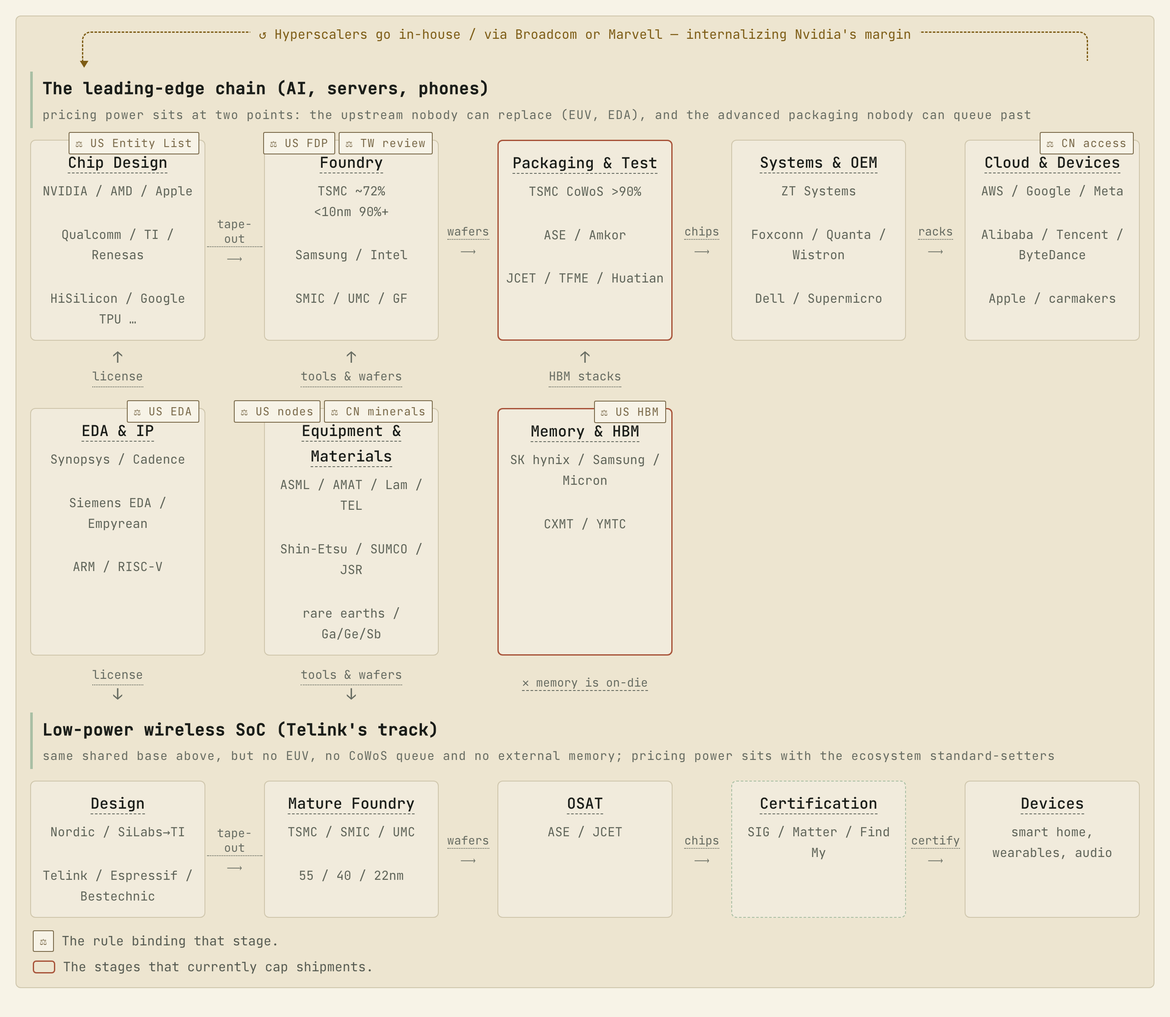
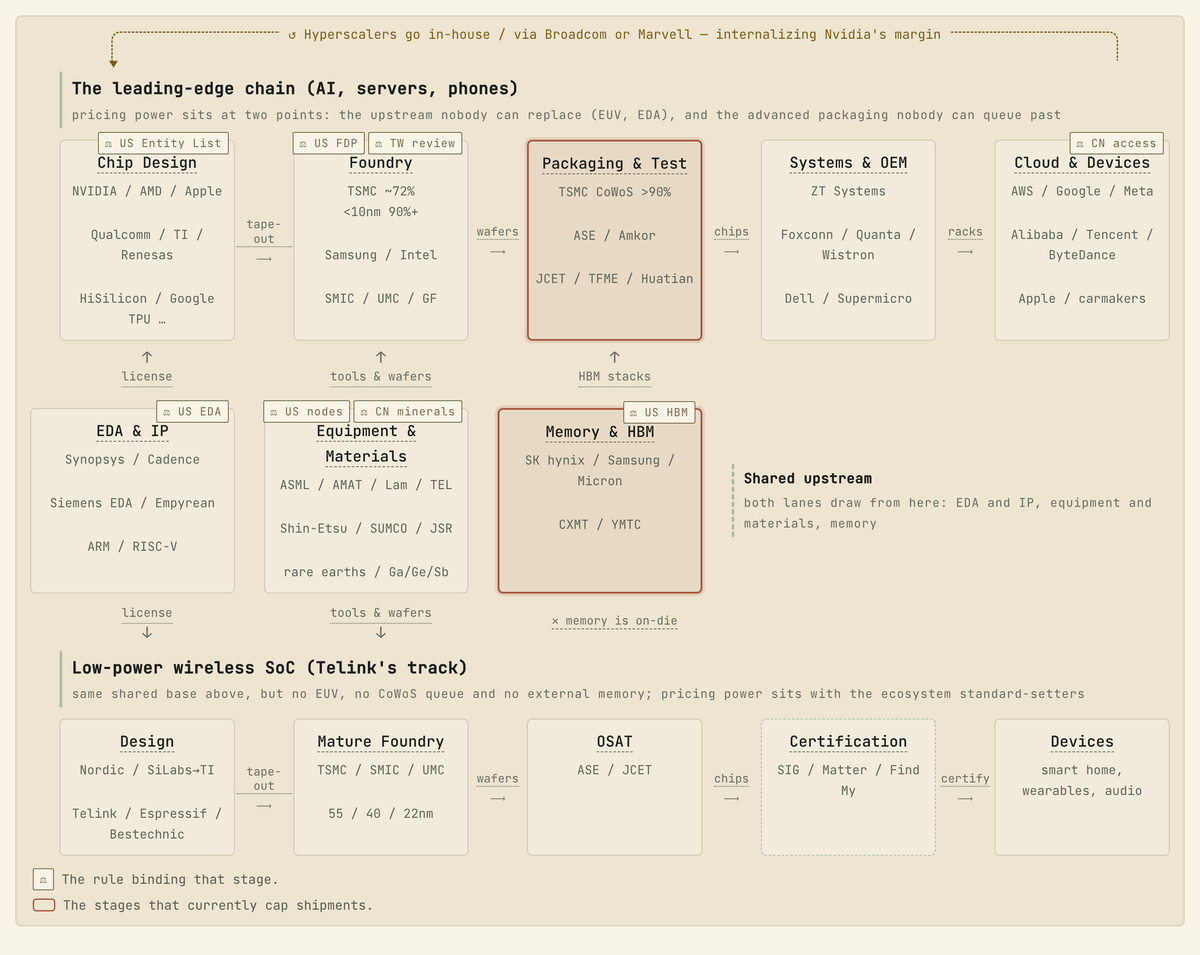
semis: the shared band is labelled and set apart; the red border is visible
Three things, all from the same reading of the figure:

The red border was 1.5px of a muted tone against a dark card and lost
against every other border on the page. It goes to 2px with the tinted
fill and a soft ring, so the two stages that cap shipments read as
marked rather than merely outlined.

The band between the lanes serves both — it feeds up to the leading edge
and down to low-power wireless — but sitting between two lane headers it
was being read as part of the top one, which quietly wrote EDA and
equipment out of the wireless track. It now carries its own label,
"共用上游 / Shared upstream", in the empty columns beside it.

And it sits half a connector to the left of the rows above and below, so
it reads as a layer feeding the chain rather than a step inside it. Done
by indenting the grid and pulling the band back, so nothing spills past
the frame: frame at 18px, band at 35, chain at 69.

Register pass on the text merged in yesterday, which I shipped without
one: 「不是漏画了」→「并非遗漏」, 「谁自己有厂」→「是否自建产线」,
「只剩英特尔还在扛」→「仅余英特尔仍在坚持」, 「往上游长」→「向上游延伸」,
「用自家 300mm 厂的成本来打」→「以自有 300mm 产线的成本参与竞争」, and ten more.

diff --git a/quartz/static/semis/value-chain-map.html b/quartz/static/semis/value-chain-map.html
@@ -251,7 +251,7 @@ h1.article-title{font-size:30px}
   .fig{width:min(1320px, calc(100vw - 48px));
     margin-left:calc((100% - min(1320px, 100vw - 48px)) / 2)}
 .fig{overflow:visible}}
-.fgrid{display:grid;min-width:1060px;
+.fgrid{display:grid;min-width:1060px;padding-left:34px;
   grid-template-columns:1fr 68px 1fr 68px 1fr 68px 1fr 68px 1fr;
   gap:10px 0;align-items:stretch}
 .flane{font-size:14px;color:var(--color-text-faint);letter-spacing:.05em;
@@ -280,7 +280,8 @@ h1.article-title{font-size:30px}
   background:var(--color-bg);border:1px solid var(--rule);color:var(--rule);
   cursor:help;border-bottom:1px solid var(--rule)!important;white-space:nowrap}
 .fpill .tg-tip-box{color:var(--color-text-dim)}
-.fbox.hot{border-color:var(--hot);border-width:1.5px}
+.fbox.hot{border-color:var(--hot);border-width:2px;background:var(--hot-bg);
+  box-shadow:0 0 0 3px color-mix(in srgb, var(--hot) 14%, transparent)}
 /* the loop now sits above the chain, so it brackets downward: the rule runs
    along the top and both arms drop to the row, head pointing down into design */
 .fbrk{position:relative;height:34px;margin:0 60px;
@@ -368,6 +369,12 @@ h1.article-title{font-size:30px}
 .fnote{display:flex;align-items:center;justify-content:center;text-align:center;
   font-size:13.5px;line-height:1.3;color:var(--color-text-faint);padding:2px;min-height:40px}
 .fnote .tg-tip{border-bottom-style:dashed}
+
+/* the shared band is a layer feeding the chain, not a step in it: offset it so
+   its cells deliberately fail to line up with the rows above and below */
+.fbox.mid{margin-left:-34px}
+.flane.bandlane{border-left-style:dashed;align-self:center;margin-left:-34px}
+.flane.bandlane .ln{font-size:16px}
 </style></head><body><article>
 <h1 class="article-title">半导体产业链全图 — Semiconductor Value Chain: The Full Map</h1>
 <p class="meta">2026-08-21 / silviazeng.github.io</p>
@@ -392,12 +399,12 @@ h1.article-title{font-size:30px}
 <div class="fvert up midv" style="grid-row:4;grid-column:1"><span class="ar">↑</span><span class="tg-tip " tabindex="0"><span class="tg-lang zh">授权</span><span class="tg-lang en">license</span><span class="tg-tip-box"><span class="tg-lang zh">EDA 工具按席位收费；IP 按「授权费 + 每颗版税」收。ARM 的商业模式就在这一条箭头上。</span><span class="tg-lang en">EDA tools are sold per seat; IP as licence fee plus per-chip royalty. ARM's entire business model lives on this one arrow.</span></span></span></div>
 <div class="fvert up midv" style="grid-row:4;grid-column:3"><span class="ar">↑</span><span class="tg-tip " tabindex="0"><span class="tg-lang zh">设备与硅片</span><span class="tg-lang en">tools & wafers</span><span class="tg-tip-box"><span class="tg-lang zh">光刻机、刻蚀机、硅片、光刻胶从这里进厂。断供这一条竖线，工厂两年后就造不了下一代。</span><span class="tg-lang en">Scanners, etchers, wafers and resists enter the fab here. Cut this vertical and in two years the fab cannot build the next node.</span></span></span></div>
 <div class="fvert up midv" style="grid-row:4;grid-column:5"><span class="ar">↑</span><span class="tg-tip " tabindex="0"><span class="tg-lang zh">HBM 堆栈</span><span class="tg-lang en">HBM stacks</span><span class="tg-tip-box"><span class="tg-lang zh">HBM 是在<b>封装环节</b>才和逻辑裸片合体的——这正是 CoWoS 成为整条链瓶颈的原因。</span><span class="tg-lang en">HBM only meets the logic die <b>at packaging</b> — which is exactly why CoWoS is the chain's bottleneck.</span></span></span></div>
-<div class="fbox mid" style="grid-row:5;grid-column:1"><span class="ftag"><span class="fpill tg-tip" tabindex="0">⚖ <span class="tg-lang zh">美国 EDA</span><span class="tg-lang en">US EDA</span><span class="tg-tip-box"><span class="tg-lang zh">同属一套<b>美国出口管制体系（EAR，商务部 BIS 执行）</b>——五件工具各咬一层，这件管的是「软件能不能给你用」。<br><br><b>EAR 对 EDA 工具与 IP 的管制。</b>断供这一层不需要碰任何硬件，因此是 2022 年管制里最先被动用的杠杆。三家 EDA 寡头里两家在美国，第三家（Siemens EDA）技术根也在美国，同样受约束。</span><span class="tg-lang en">One instrument of the <b>same US export-control system (the EAR, run by BIS)</b> — five tools each bite one layer, and this one governs whether you may use the software.<br><br><b>EAR controls on EDA tools and IP.</b> Cutting this layer off touches no hardware, which is why it was the first lever pulled in 2022. Two of the three EDA houses are American; the third (Siemens EDA) has American technology roots and is bound the same way.</span></span></span></span><span class="ft"><span class="tg-tip tipL " tabindex="0"><span class="tg-lang zh">EDA 与 IP</span><span class="tg-lang en">EDA & IP</span><span class="tg-tip-box"><span class="tg-lang zh">整个栈的最底层：三家 EDA 寡头（Synopsys、Cadence、Siemens EDA）+ IP 授权（ARM 只授权不卖芯片）。断供这一层不需要碰任何硬件——2022 年管制里最先被用到的杠杆。</span><span class="tg-lang en">The base of the stack: three EDA oligopolists plus IP licensing (ARM sells no chips). Cutting this layer off touches no hardware — the first lever pulled in the 2022 controls.</span></span></span></span><span class="fp"><span class="fpl"><span class="sr sr-us">Synopsys</span> / <span class="sr sr-us">Cadence</span></span><br><span class="fpl"><span class="sr sr-eu">Siemens EDA</span> / <span class="sr sr-cn"><span class="tg-lang zh">华大九天</span><span class="tg-lang en">Empyrean</span></span></span><br><span class="fpl"><span class="sr sr-eu">ARM</span> / <span class="sr sr-eu">RISC-V</span></span></span></div>
+<div class="flane bandlane" style="grid-row:5;grid-column:7/-1"><span class="tg-lang zh"><span class="ln">共用上游</span>两条线都从这里取：EDA 与 IP、设备与材料、存储</span><span class="tg-lang en"><span class="ln">Shared upstream</span>both lanes draw from here: EDA and IP, equipment and materials, memory</span></div><div class="fbox mid" style="grid-row:5;grid-column:1"><span class="ftag"><span class="fpill tg-tip" tabindex="0">⚖ <span class="tg-lang zh">美国 EDA</span><span class="tg-lang en">US EDA</span><span class="tg-tip-box"><span class="tg-lang zh">同属一套<b>美国出口管制体系（EAR，商务部 BIS 执行）</b>——五件工具各咬一层，这件管的是「软件能不能给你用」。<br><br><b>EAR 对 EDA 工具与 IP 的管制。</b>断供这一层不需要碰任何硬件，因此是 2022 年管制里最先被动用的杠杆。三家 EDA 寡头里两家在美国，第三家（Siemens EDA）技术根也在美国，同样受约束。</span><span class="tg-lang en">One instrument of the <b>same US export-control system (the EAR, run by BIS)</b> — five tools each bite one layer, and this one governs whether you may use the software.<br><br><b>EAR controls on EDA tools and IP.</b> Cutting this layer off touches no hardware, which is why it was the first lever pulled in 2022. Two of the three EDA houses are American; the third (Siemens EDA) has American technology roots and is bound the same way.</span></span></span></span><span class="ft"><span class="tg-tip tipL " tabindex="0"><span class="tg-lang zh">EDA 与 IP</span><span class="tg-lang en">EDA & IP</span><span class="tg-tip-box"><span class="tg-lang zh">整个栈的最底层：三家 EDA 寡头（Synopsys、Cadence、Siemens EDA）+ IP 授权（ARM 只授权不卖芯片）。断供这一层不需要碰任何硬件——2022 年管制里最先被用到的杠杆。</span><span class="tg-lang en">The base of the stack: three EDA oligopolists plus IP licensing (ARM sells no chips). Cutting this layer off touches no hardware — the first lever pulled in the 2022 controls.</span></span></span></span><span class="fp"><span class="fpl"><span class="sr sr-us">Synopsys</span> / <span class="sr sr-us">Cadence</span></span><br><span class="fpl"><span class="sr sr-eu">Siemens EDA</span> / <span class="sr sr-cn"><span class="tg-lang zh">华大九天</span><span class="tg-lang en">Empyrean</span></span></span><br><span class="fpl"><span class="sr sr-eu">ARM</span> / <span class="sr sr-eu">RISC-V</span></span></span></div>
 <div class="fbox mid" style="grid-row:5;grid-column:3"><span class="ftag"><span class="fpill tg-tip" tabindex="0">⚖ <span class="tg-lang zh">美国门槛</span><span class="tg-lang en">US nodes</span><span class="tg-tip-box"><span class="tg-lang zh">同属一套<b>美国出口管制体系（EAR，商务部 BIS 执行）</b>——五件工具各咬一层，这件管的是「设备能不能进厂」。<br><br><b>2022 年 10 月 7 日的制程门槛 + 2024 年 12 月的设备 FDP 规则。</b>向中国境内工厂出口设备，只要该厂生产 16/14nm 以下逻辑、18nm 半节距以下 DRAM 或 128 层以上 NAND，就需要许可证——<b>不看所有权</b>。2024 年 12 月起，连非美国造的设备只要用了美国技术也一并覆盖。</span><span class="tg-lang en">One instrument of the <b>same US export-control system (the EAR, run by BIS)</b> — five tools each bite one layer, and this one governs whether tools may enter the fab.<br><br><b>The node thresholds of 7 October 2022, plus the equipment FDP rule of December 2024.</b> Shipping tools to any China-located fab producing logic below 16/14nm, DRAM below 18nm half-pitch or NAND at 128+ layers requires a licence — <b>regardless of who owns the fab</b>. Since December 2024 even non-US tools built with US technology are covered.</span></span></span><span class="fpill tg-tip" tabindex="0">⚖ <span class="tg-lang zh">中国原料</span><span class="tg-lang en">CN minerals</span><span class="tg-tip-box"><span class="tg-lang zh"><b>商务部 2025 年 10 月 9 日第 61/62 号公告。</b>只要一件外国制造的产品里含有价值占比 0.1% 以上的中国原产稀土，出口就需要中国的许可证——<b>这是中国版的 FDP 规则</b>，同样的域外管辖逻辑，方向相反。另有镓、锗、锑：2024 年 12 月 3 日曾宣布对美「原则上不予许可」，2025 年 11 月改回许可制。釜山会晤后，域外条款暂停至 2026 年 11 月 10 日，镓锗锑暂停至 11 月 27 日。</span><span class="tg-lang en"><b>MOFCOM Notices 61/62 of 9 October 2025.</b> Any foreign-made good containing 0.1% or more Chinese-origin rare earths needs a Chinese export licence — structurally the mirror of the US FDP rule. Suspended after Busan until 10 November 2026; the gallium/germanium/antimony suspension runs to 27 November.</span></span></span></span><span class="ft"><span class="tg-tip " tabindex="0"><span class="tg-lang zh">设备与材料</span><span class="tg-lang en">Equipment & Materials</span><span class="tg-tip-box"><span class="tg-lang zh"><b>设备与材料</b>。造芯片用的机器和原料，集中度比下游任何一层都高：EUV 只有 ASML 一家，其光源来自美国 Cymer、镜头来自德国蔡司。稀土和镓锗锑的精炼环节 80% 以上在中国。</span><span class="tg-lang en"><b>Equipment & materials</b> — more concentrated than anything downstream: one EUV maker (ASML), whose source is American (Cymer) and optics German (Zeiss). China refines 80%+ of rare earths and Ga/Ge/Sb.</span></span></span></span><span class="fp"><span class="fpl"><span class="sr sr-eu">ASML</span> / <span class="sr sr-us">AMAT</span> / <span class="sr sr-us">Lam</span> / <span class="sr sr-jp">TEL</span></span><br><span class="fpl"><span class="sr sr-jp"><span class="tg-lang zh">信越</span><span class="tg-lang en">Shin-Etsu</span></span> / <span class="sr sr-jp">SUMCO</span> / <span class="sr sr-jp">JSR</span></span><br><span class="fpl"><span class="sr sr-cn"><span class="tg-lang zh">稀土及镓锗锑</span><span class="tg-lang en">rare earths / Ga/Ge/Sb</span></span></span></span></div>
 <div class="fbox hot mid" style="grid-row:5;grid-column:5"><span class="ftag"><span class="fpill tg-tip" tabindex="0">⚖ <span class="tg-lang zh">美国 HBM</span><span class="tg-lang en">US HBM</span><span class="tg-tip-box"><span class="tg-lang zh">同属一套<b>美国出口管制体系（EAR，商务部 BIS 执行）</b>——五件工具各咬一层，这件管的是「这类物项本身」。<br><br><b>2024 年 12 月起 HBM 被纳入管制（ECCN 3A090.c）。</b>这是目前限制华为昇腾出货量的真正瓶颈——约束在 HBM，不在逻辑晶圆。注意这一格里三家的机制各不相同：美光本身是美国公司；长江存储 2022 年 12 月被列入实体清单；<b>长鑫至今未被列名，它受约束靠的是上面那条不看所有权的制程门槛</b>。</span><span class="tg-lang en">One instrument of the <b>same US export-control system (the EAR, run by BIS)</b> — five tools each bite one layer, and this one governs the item class itself.<br><br><b>HBM came under control in December 2024 (ECCN 3A090.c).</b> This, not logic wafers, is the binding constraint on Huawei's Ascend shipments. Note the three makers here are caught by different mechanisms: Micron is simply American; YMTC was Entity-Listed in December 2022; <b>CXMT has never been named — it is bound by the ownership-blind node thresholds above</b>.</span></span></span></span><span class="ft"><span class="tg-tip " tabindex="0"><span class="tg-lang zh">存储与 HBM</span><span class="tg-lang en">Memory & HBM</span><span class="tg-tip-box"><span class="tg-lang zh"><b>HBM（High Bandwidth Memory，高带宽内存）</b>。垂直堆叠的 DRAM，紧贴处理器裸片放置。AI 加速器的主要规格竞赛点，全球只有 SK 海力士、三星、美光三家能量产。2024 年 12 月起被列入美国出口管制，<b>这是目前限制华为昇腾出货量的真正瓶颈——不是逻辑晶圆</b>。</span><span class="tg-lang en"><b>HBM (High Bandwidth Memory)</b> — vertically stacked DRAM placed against the processor die. Only SK hynix, Samsung and Micron produce it at volume. Export-controlled by the US since December 2024, and <b>the actual binding constraint on Huawei's Ascend shipments — not logic wafers</b>.</span></span></span></span><span class="fp"><span class="fpl"><span class="sr sr-kr"><span class="tg-lang zh">SK 海力士</span><span class="tg-lang en">SK hynix</span></span> / <span class="sr sr-kr"><span class="tg-lang zh">三星</span><span class="tg-lang en">Samsung</span></span> / <span class="sr sr-us"><span class="tg-lang zh">美光</span><span class="tg-lang en">Micron</span></span></span><br><span class="fpl"><span class="sr sr-cn"><span class="tg-lang zh">长鑫</span><span class="tg-lang en">CXMT</span></span> / <span class="sr sr-cn"><span class="tg-lang zh">长江存储</span><span class="tg-lang en">YMTC</span></span></span></span></div>
 <div class="fvert midv" style="grid-row:6;grid-column:1"><span class="tg-tip " tabindex="0"><span class="tg-lang zh">授权</span><span class="tg-lang en">license</span><span class="tg-tip-box"><span class="tg-lang zh">低功耗 SoC 一样要买 EDA 和 CPU 内核 IP——泰凌微用 RISC-V，Nordic 用 ARM Cortex-M。<b>成熟节点的设计工具照常能买，但一旦被列入实体清单，EDA 是整层切断的。</b>这是这条线上最真实的一处管制暴露。</span><span class="tg-lang en">Low-power SoCs buy EDA and CPU IP just the same — Telink on RISC-V, Nordic on ARM Cortex-M. <b>Mature-node tools remain purchasable, but an Entity List designation cuts the whole layer at once.</b> This is the one real control exposure on this track.</span></span></span><span class="ar">↓</span></div>
 <div class="fvert midv" style="grid-row:6;grid-column:3"><span class="tg-tip " tabindex="0"><span class="tg-lang zh">设备与硅片</span><span class="tg-lang en">tools & wafers</span><span class="tg-tip-box"><span class="tg-lang zh">同一批设备与材料也供成熟产线——只是用 DUV 而非 EUV。<b>被管制的是先进节点的门槛，不是机台本身</b>，所以 55/40nm 这条线基本不受影响；中国的原料管制则对两条线一视同仁。</span><span class="tg-lang en">The same tools and materials feed mature lines too — on DUV rather than EUV. <b>What is controlled is the node threshold, not the tool</b>, so the 55/40nm track is largely untouched; China's materials controls, by contrast, bind both equally.</span></span></span><span class="ar">↓</span></div>
-<div class="fnote midv" style="grid-row:6;grid-column:5"><span class="tg-tip " tabindex="0"><span class="tg-lang zh">✕ 存储做在片内</span><span class="tg-lang en">✕ memory is on-die</span><span class="tg-tip-box"><span class="tg-lang zh"><b>这条线没有存储环节，不是漏画了。</b>低功耗 SoC 的存储做在片内——嵌入式 flash 加 SRAM，与逻辑电路在同一片硅、同一道工艺里完成。这正是华虹「嵌入式非易失存储」特色工艺值钱的原因，也是这条线停在 55/40nm 的一个理由：eFlash 到更小的节点就做不出来了。少数型号外挂 NOR flash 或 PSRAM，但那是主板上的另一颗料，不是产业链上的一层。HBM 则完全无关。</span><span class="tg-lang en"><b>The missing memory stage is deliberate.</b> A low-power SoC carries its memory on-die — embedded flash plus SRAM, built on the same silicon in the same process. That is what makes HuaHong's embedded non-volatile memory option valuable, and one reason the track sits at 55/40nm: eFlash stops working much below that. A few parts add external NOR flash or PSRAM, but that is another component on the board, not a layer of the chain. HBM is irrelevant here.</span></span></span></div>
+<div class="fnote midv" style="grid-row:6;grid-column:5"><span class="tg-tip " tabindex="0"><span class="tg-lang zh">✕ 存储做在片内</span><span class="tg-lang en">✕ memory is on-die</span><span class="tg-tip-box"><span class="tg-lang zh"><b>这条线没有存储环节，并非遗漏。</b>低功耗 SoC 的存储做在片内——嵌入式 flash 加 SRAM，与逻辑电路在同一片硅、同一道工艺里完成。这正是华虹「嵌入式非易失存储」特色工艺的价值所在，也是这条线停在 55/40nm 的一个理由：eFlash 在更小的节点上无法实现。少数型号外挂 NOR flash 或 PSRAM，但那是主板上的另一颗器件，不构成产业链上的一层。HBM 则完全无关。</span><span class="tg-lang en"><b>The missing memory stage is deliberate.</b> A low-power SoC carries its memory on-die — embedded flash plus SRAM, built on the same silicon in the same process. That is what makes HuaHong's embedded non-volatile memory option valuable, and one reason the track sits at 55/40nm: eFlash stops working much below that. A few parts add external NOR flash or PSRAM, but that is another component on the board, not a layer of the chain. HBM is irrelevant here.</span></span></span></div>
 <div class="flane" style="grid-row:7;grid-column:1/-1"><span class="tg-lang zh"><span class="ln">低功耗无线 SoC（泰凌微所在赛道）</span>共用上面这层底座，但不碰 EUV、不排 CoWoS 的队、不需要外部存储；定价权在生态标准方</span><span class="tg-lang en"><span class="ln">Low-power wireless SoC (Telink's track)</span>same shared base above, but no EUV, no CoWoS queue and no external memory; pricing power sits with the ecosystem standard-setters</span></div>
 <div class="fbox" style="grid-row:8;grid-column:1"><span class="ft"><span class="tg-tip tipL " tabindex="0"><span class="tg-lang zh">设计</span><span class="tg-lang en">Design</span><span class="tg-tip-box"><span class="tg-lang zh"><b>低功耗无线 SoC 设计</b>。竞争维度是功耗、协议覆盖、认证、SDK 易用性和成本——不是算力。单价几毛到几美元，年出货以亿颗计。</span><span class="tg-lang en"><b>Low-power wireless SoC design.</b> The axes are power, protocol coverage, certification, SDK usability and cost — not compute. Cents to dollars per chip, hundreds of millions of units a year.</span></span></span></span><span class="fp"><span class="fpl"><span class="sr sr-eu">Nordic</span> / <span class="sr sr-us">SiLabs→TI</span></span><br><span class="fpl"><span class="sr sr-cn"><span class="tg-lang zh">泰凌微</span><span class="tg-lang en">Telink</span></span> / <span class="sr sr-cn"><span class="tg-lang zh">乐鑫</span><span class="tg-lang en">Espressif</span></span> / <span class="sr sr-cn"><span class="tg-lang zh">恒玄</span><span class="tg-lang en">Bestechnic</span></span></span></span></div>
 <div class="fcon" style="grid-row:8;grid-column:2"><span class="tg-tip " tabindex="0"><span class="tg-lang zh">版图</span><span class="tg-lang en">tape-out</span><span class="tg-tip-box"><span class="tg-lang zh"><b>版图（GDSII）→ tape-out</b>。设计数据定稿、签核、交给代工厂的那个时间点。注意它是事件不是过程。一颗普通 7nm SoC 的首次 tape-out 通常就要 5,000 万美元。</span><span class="tg-lang en"><b>Layout (GDSII) → tape-out</b> — the moment design data is finalized, signed off and handed to the foundry. An event, not a process. A first tape-out of an ordinary 7nm SoC typically runs $50m.</span></span></span><span class="ar">⟶</span></div>
@@ -450,7 +457,7 @@ h1.article-title{font-size:30px}
 <p class="st-kicker"><span class="tg-lang zh">把版图印到硅上。资本开支最重、集中度最高的一环。</span><span class="tg-lang en">Printing the layout onto silicon. The heaviest capex and the highest concentration in the chain.</span></p>
 <p class="st-rules"><span class="rl-mark">⚖</span><span class="tg-lang zh">这一层受：</span><span class="tg-lang en">This layer is bound by: </span><span class="rule tg-tip" tabindex="0"><span class="tg-lang zh">美国 FDP 规则</span><span class="tg-lang en">US FDP rule</span><span class="tg-tip-box"><span class="tg-lang zh">同属一套<b>美国出口管制体系（EAR，商务部 BIS 执行）</b>——五件工具各咬一层，这件管的是「在国外造的算不算美国管」。<br><br><b>外国直接产品规则（FDP）。</b>一件产品哪怕百分之百在台湾制造、由台湾公司拥有，只要它是用美国的技术、软件或设备「直接生产」出来的，美国就主张管辖权——不论它在哪造、由谁造。<b>这才是台积电受美国法律约束的原因</b>，而不是它有多少美国客户。2020 年针对华为启用，2022 年扩展到先进计算，2024 年 12 月又扩展到半导体设备本身。</span><span class="tg-lang en">One instrument of the <b>same US export-control system (the EAR, run by BIS)</b> — five tools each bite one layer, and this one governs whether a foreign-made product still falls under US law.<br><br><b>The Foreign Direct Product Rule.</b> Even an item made entirely in Taiwan by a Taiwanese company falls under US jurisdiction if it is the direct product of American technology or equipment. <b>That, not its customer list, is why TSMC is bound by US law.</b></span></span></span> <span class="tg-lang zh">与</span><span class="tg-lang en">and</span> <span class="rule tg-tip" tabindex="0"><span class="tg-lang zh">台湾对外投资审查</span><span class="tg-lang en">Taiwan outbound investment review</span><span class="tg-tip-box"><span class="tg-lang zh"><b>《产业创新条例》第 22 条修正（2025 年 4 月通过）。</b>对外投资特定技术需事前核准，主管机关可以国家安全为由否决或附条件核准。所谓「N-1 原则」（海外制程落后本土一代）从来不是成文禁令，而是通过这道审查行使的裁量性规范，2025 年 1 月起持续放宽。</span><span class="tg-lang en"><b>Article 22 of the Industrial Innovation Act, amended April 2025.</b> Outbound investment in designated technologies needs prior approval, and the ministry may refuse or attach conditions on national-security grounds. The so-called N-1 rule was never a codified ban — it is a discretionary norm applied through this review, and has been loosened since January 2025.</span></span></span></p>
 <div class="choke"><b><span class="tg-lang zh">先进节点的门槛不是技术，是资本</span><span class="tg-lang en">The leading-edge barrier is capital, not technology</span></b><br><span><span class="tg-lang zh">IBS 估算从零设计一颗大型 2nm 芯片约 7.25 亿美元；2nm 晶圆预期 ⚠2.5–3 万美元一片。全球有能力独立承担前沿节点大芯片的公司不超过十几家。</span><span class="tg-lang en">IBS puts a from-scratch large 2nm design at ~$725m; a 2nm wafer is expected to run ⚠$25–30k. Perhaps a dozen companies worldwide can independently carry a leading-edge large die.</span></span></div>
-<div class="choke"><b><span class="tg-lang zh">两种模式：IDM 与 fabless + 代工</span><span class="tg-lang en">Two models: IDM, or fabless plus foundry</span></b><br><span><span class="tg-lang zh">这一层最容易被忽略的分野不是国别，是<b>谁自己有厂</b>。IDM 自己设计也自己制造（下面存储那一排全是，模拟功率里也占多数），fabless 只做设计、把硅交给代工厂——两条路的成本结构、护城河和风险完全不同，<span class='tg-tip wide' tabindex='0'>逐条对照<span class='tg-tip-box'><b>IDM 与 fabless：不是谁更先进，是什么时候哪种划算</b><br><b>定义</b>：IDM 自己设计、自己建厂制造，多数还自己封测；fabless 只做设计，制造交代工厂、封测交 OSAT<br><b>谁是 IDM</b>：存储清一色（三星、海力士、美光、铠侠、长鑫、长江存储）；模拟、功率、车规 MCU 多数是（TI、英飞凌、意法、恩智浦、瑞萨）；先进逻辑只剩英特尔还在扛<br><b>IDM 的优势</b>：工艺和产品一起调——存储和功率器件的性能本来就藏在工艺里，外包等于把核心交出去；产能自己排；老产线折旧摊完后成本极低<br><b>IDM 的代价</b>：一座先进厂几百亿美元，产能空转就是亏损；工艺一旦落后，产品跟着落后，英特尔 10nm 就是教科书案例<br><b>什么时候 IDM 赢</b>：工艺即产品、不必追前沿节点、一颗料号卖十年——存储、模拟、功率、车规<br><b>什么时候 fabless 赢</b>：要前沿节点、迭代快、股东要资本回报——AI、手机、低功耗无线<br><b>分水岭</b>：1987 年台积电发明纯代工，把「要不要建厂」从战略问题变成采购问题，fabless 才成为一条走得通的路<br><b>反方向</b>：图里那条琥珀虚线（云厂商自研芯片）是同一件事倒过来——系统厂往上游长，也在把链条缝回自己手里<br><b>对低功耗这条赛道</b>：Nordic、乐鑫、泰凌微全是 fabless，TI 是 IDM。TI 收购 SiLabs 之后，赛道里第一次出现「用自家 300mm 厂的成本来打」的对手<br><b>一句话：IDM 赌的是产线利用率，fabless 赌的是设计迭代速度。</b></span></span>。</span><span class="tg-lang en">The divide most easily missed on this layer is not nationality but <b>who owns fabs</b>. An IDM designs and manufactures (the whole memory row below, and most of the analog and power names); a fabless company designs and hands the silicon to a foundry — two different cost structures, moats and risks, <span class='tg-tip wide' tabindex='0'>line by line<span class='tg-tip-box'><b>IDM vs fabless: not which is more advanced, but when each pays</b><br><b>Definition</b>: an IDM designs and manufactures in its own fabs, usually packaging and testing too; a fabless firm designs only, buying wafers from a foundry and assembly from an OSAT<br><b>Who is an IDM</b>: every memory maker here (Samsung, SK hynix, Micron, Kioxia, CXMT, YMTC); most analog, power and automotive-MCU names (TI, Infineon, ST, NXP, Renesas); in leading-edge logic only Intel still holds the line<br><b>What it buys</b>: process and product tuned together — in memory and power devices the performance lives in the process, so outsourcing means handing over the core; capacity you allocate yourself; and once a line is depreciated, costs almost nobody can match<br><b>What it costs</b>: tens of billions per leading-edge fab, and idle capacity is a straight loss; when the process falls behind, the products fall behind with it — Intel at 10nm is the textbook case<br><b>When IDM wins</b>: the process is the product, the node need not be the newest, and a part sells for a decade — memory, analog, power, automotive<br><b>When fabless wins</b>: leading-edge nodes, fast iteration, shareholders wanting returns on capital — AI, phones, low-power wireless<br><b>The hinge</b>: TSMC's pure-play model in 1987 turned "should we build a fab" from a strategy question into a purchasing one, which is what made fabless viable at all<br><b>The other direction</b>: the amber dashed loop above (hyperscalers designing their own chips) is the same move in reverse — a systems company growing upstream, sewing the chain back together<br><b>For the low-power track</b>: Nordic, Espressif and Telink are all fabless; TI is an IDM. Once TI closes on Silicon Labs, the track has, for the first time, a rival competing on the cost of its own 300mm fabs<br><b>In one line: an IDM bets on fab utilization, a fabless company bets on design cadence.</b></span></span>.</span></span></div>
+<div class="choke"><b><span class="tg-lang zh">两种模式：IDM 与 fabless + 代工</span><span class="tg-lang en">Two models: IDM, or fabless plus foundry</span></b><br><span><span class="tg-lang zh">这一层最容易被忽略的分野不是国别，而是<b>是否自建产线</b>。IDM 自行设计并自行制造（下方存储一排全部如此，模拟与功率中亦占多数），fabless 只做设计，将硅片交由代工厂——两条路的成本结构、护城河和风险完全不同，<span class='tg-tip wide' tabindex='0'>逐条对照<span class='tg-tip-box'><b>IDM 与 fabless：不是谁更先进，是什么时候哪种划算</b><br><b>定义</b>：IDM 自行设计、自建产线制造，多数亦自行封测；fabless 只做设计，制造交由代工厂、封测交由 OSAT<br><b>谁是 IDM</b>：存储清一色（三星、海力士、美光、铠侠、长鑫、长江存储）；模拟、功率、车规 MCU 多数是（TI、英飞凌、意法、恩智浦、瑞萨）；先进逻辑仅余英特尔仍在坚持<br><b>IDM 的优势</b>：工艺与产品协同调校——存储与功率器件的性能本就取决于工艺，外包即让渡核心；产能自主调度；旧产线折旧摊销完毕后成本极低<br><b>IDM 的代价</b>：一座先进厂几百亿美元，产能空转就是亏损；工艺一旦落后，产品跟着落后，英特尔 10nm 就是教科书案例<br><b>什么时候 IDM 赢</b>：工艺即产品、不必追前沿节点、一颗料号卖十年——存储、模拟、功率、车规<br><b>什么时候 fabless 赢</b>：要前沿节点、迭代快、股东要求资本回报——AI、手机、低功耗无线<br><b>分水岭</b>：1987 年台积电发明纯代工，把「要不要建厂」从战略问题变成采购问题，fabless 才成为可行路径<br><b>反方向</b>：图里那条琥珀虚线（云厂商自研芯片）是同一逻辑的反向——系统厂向上游延伸，同样在把链条收拢回自己手中<br><b>对低功耗这条赛道</b>：Nordic、乐鑫、泰凌微全是 fabless，TI 是 IDM。TI 收购 SiLabs 之后，赛道里第一次出现以自有 300mm 产线的成本参与竞争的对手<br><b>一句话：IDM 押的是产线利用率，fabless 押的是设计迭代速度。</b></span></span>。</span><span class="tg-lang en">The divide most easily missed on this layer is not nationality but <b>who owns fabs</b>. An IDM designs and manufactures (the whole memory row below, and most of the analog and power names); a fabless company designs and hands the silicon to a foundry — two different cost structures, moats and risks, <span class='tg-tip wide' tabindex='0'>line by line<span class='tg-tip-box'><b>IDM vs fabless: not which is more advanced, but when each pays</b><br><b>Definition</b>: an IDM designs and manufactures in its own fabs, usually packaging and testing too; a fabless firm designs only, buying wafers from a foundry and assembly from an OSAT<br><b>Who is an IDM</b>: every memory maker here (Samsung, SK hynix, Micron, Kioxia, CXMT, YMTC); most analog, power and automotive-MCU names (TI, Infineon, ST, NXP, Renesas); in leading-edge logic only Intel still holds the line<br><b>What it buys</b>: process and product tuned together — in memory and power devices the performance lives in the process, so outsourcing means handing over the core; capacity you allocate yourself; and once a line is depreciated, costs almost nobody can match<br><b>What it costs</b>: tens of billions per leading-edge fab, and idle capacity is a straight loss; when the process falls behind, the products fall behind with it — Intel at 10nm is the textbook case<br><b>When IDM wins</b>: the process is the product, the node need not be the newest, and a part sells for a decade — memory, analog, power, automotive<br><b>When fabless wins</b>: leading-edge nodes, fast iteration, shareholders wanting returns on capital — AI, phones, low-power wireless<br><b>The hinge</b>: TSMC's pure-play model in 1987 turned "should we build a fab" from a strategy question into a purchasing one, which is what made fabless viable at all<br><b>The other direction</b>: the amber dashed loop above (hyperscalers designing their own chips) is the same move in reverse — a systems company growing upstream, sewing the chain back together<br><b>For the low-power track</b>: Nordic, Espressif and Telink are all fabless; TI is an IDM. Once TI closes on Silicon Labs, the track has, for the first time, a rival competing on the cost of its own 300mm fabs<br><b>In one line: an IDM bets on fab utilization, a fabless company bets on design cadence.</b></span></span>.</span></span></div>
 <div class="grp"><p class="grp-l">先进节点 <i>/</i> Leading Edge</p><div class="chips"><span class="chip c-tw tg-tip" data-r="tw" tabindex="0"><span class="chip-n">TSMC 台积电<i class="chip-r"><span class="tg-lang zh">台</span><span class="tg-lang en">TW</span></i></span><span class="chip-m"><span class="tg-lang zh">代工 ~72%，<10nm 90%+</span><span class="tg-lang en">~72% of foundry, 90%+ below 10nm</span></span><span class="tg-tip-box"><span class="tg-lang zh"><b>台积电</b>。1987 年张忠谋创立，发明纯代工模式。2026 Q1 代工份额约 72%，Q2 营收 402 亿美元、毛利率 67.7%、先进制程占 77%。2026 年资本开支 600–640 亿美元。N2 2025 Q4 量产，<b>A16 2026 下半年在台湾首产</b>。</span><span class="tg-lang en"><b>TSMC</b> — founded 1987 by Morris Chang, inventor of the pure-play model. ~72% foundry share in Q1'26; Q2 revenue $40.2bn, GM 67.7%, advanced nodes 77% of wafer revenue; 2026 capex $60–64bn. N2 in volume since Q4'25; <b>A16 enters production in Taiwan in 2H 2026</b>.</span></span></span><span class="chip c-kr tg-tip" data-r="kr" tabindex="0"><span class="chip-n">Samsung Foundry<i class="chip-r"><span class="tg-lang zh">韩</span><span class="tg-lang en">KR</span></i></span><span class="chip-m"><span class="tg-lang zh">约 6.5%</span><span class="tg-lang en">~6.5%</span></span><span class="tg-tip-box"><span class="tg-lang zh"><b>三星代工</b>。2026 Q1 份额约 6.5%（32 亿美元），约为台积电的九分之一。</span><span class="tg-lang en"><b>Samsung Foundry</b> — ~6.5% share in Q1'26 ($3.2bn), roughly one-ninth of TSMC.</span></span></span><span class="chip c-us tg-tip" data-r="us" tabindex="0"><span class="chip-n">Intel Foundry<i class="chip-r"><span class="tg-lang zh">美</span><span class="tg-lang en">US</span></i></span><span class="chip-m"><span class="tg-lang zh">18A, IDM 2.0</span><span class="tg-lang en">18A, IDM 2.0</span></span><span class="tg-tip-box"><span class="tg-lang zh"><b>英特尔代工</b>。2021 年后启动 IDM 2.0，18A 是它重回先进节点的赌注。</span><span class="tg-lang en"><b>Intel Foundry</b> — IDM 2.0 since 2021; 18A is its bet on returning to the leading edge.</span></span></span></div></div>
 <div class="grp"><p class="grp-l">成熟与特色工艺 <i>/</i> Mature &amp; Specialty</p><div class="chips"><span class="chip c-tw tg-tip" data-r="tw" tabindex="0"><span class="chip-n">UMC 联电<i class="chip-r"><span class="tg-lang zh">台</span><span class="tg-lang en">TW</span></i></span><span class="chip-m"><span class="tg-lang zh">约 3.9%</span><span class="tg-lang en">~3.9%</span></span><span class="tg-tip-box"><span class="tg-lang zh"><b>联电</b>。台湾第二大代工厂，专注成熟与特色工艺。</span><span class="tg-lang en"><b>UMC</b> — Taiwan's #2 foundry, focused on mature and specialty processes.</span></span></span><span class="chip c-us tg-tip" data-r="us" tabindex="0"><span class="chip-n">GlobalFoundries<i class="chip-r"><span class="tg-lang zh">美</span><span class="tg-lang en">US</span></i></span><span class="chip-m"><span class="tg-lang zh">约 3.3%</span><span class="tg-lang en">~3.3%</span></span><span class="tg-tip-box"><span class="tg-lang zh"><b>格罗方德</b>。AMD 2009 年剥离出来的制造部门，2018 年放弃 7nm 转向特色工艺。</span><span class="tg-lang en"><b>GlobalFoundries</b> — AMD's spun-off manufacturing arm; abandoned 7nm in 2018 for specialty processes.</span></span></span><span class="chip c-cn tg-tip" data-r="cn" tabindex="0"><span class="chip-n">SMIC 中芯<i class="chip-r"><span class="tg-lang zh">陆</span><span class="tg-lang en">CN</span></i></span><span class="chip-m"><span class="tg-lang zh">约 5.1%，受管制</span><span class="tg-lang en">~5.1%, controlled</span></span><span class="tg-tip-box"><span class="tg-lang zh"><b>中芯国际</b>。2020 年入实体清单。2025 年营收 93.27 亿美元创纪录；2026 Q2 营收 30.06 亿美元（+36.1%）、毛利率 25.3%、稼动率 93.7%。<b>N+3 已确认（麒麟 9030），但仍是 7nm 的缩放延伸，不是代际跃迁。</b></span><span class="tg-lang en"><b>SMIC</b> — Entity-Listed 2020. Record 2025 revenue of $9.327bn; Q2'26 $3.006bn (+36.1%), GM 25.3%, utilization 93.7%. <b>N+3 confirmed (Kirin 9030) — but it is a scaled extension of 7nm, not a generational step.</b></span></span></span><span class="chip c-cn tg-tip" data-r="cn" tabindex="0"><span class="chip-n">华虹 HuaHong<i class="chip-r"><span class="tg-lang zh">陆</span><span class="tg-lang en">CN</span></i></span><span class="chip-m"><span class="tg-lang zh">约 2.5%，特色工艺</span><span class="tg-lang en">~2.5%, specialty</span></span><span class="tg-tip-box"><span class="tg-lang zh"><b>华虹半导体</b>。上海，中国第二大代工厂，约占全球代工 2.5%。<b>不追先进节点</b>，专做特色工艺：嵌入式非易失存储、功率器件（IGBT、超级结 MOSFET）、模拟与电源管理、MCU、智能卡。8 英寸 0.35μm–90nm，12 英寸 90–55nm——<b>正好是低功耗无线 SoC 的主力节点区间</b>。</span><span class="tg-lang en"><b>HuaHong</b> — Shanghai; China's second foundry at roughly 2.5% of the global market. <b>It does not chase the leading edge.</b> Its business is specialty processes: embedded non-volatile memory, power discretes (IGBT, super-junction MOSFET), analog and power management, MCUs, smart cards. 0.35μm–90nm on 8-inch, 90–55nm on 12-inch — <b>exactly the node range low-power wireless SoCs live in</b>.</span></span></span><span class="chip c-tw tg-tip" data-r="tw" tabindex="0"><span class="chip-n">力积电 PSMC<i class="chip-r"><span class="tg-lang zh">台</span><span class="tg-lang en">TW</span></i></span><span class="chip-m"><span class="tg-lang zh">存储代工转型</span><span class="tg-lang en">ex-DRAM turned foundry</span></span><span class="tg-tip-box"><span class="tg-lang zh"><b>力积电（Powerchip）</b>。<b>台湾新竹，不是大陆公司。</b>前身力晶科技原本做 DRAM，在 2008–2012 年存储崩盘中几乎倒掉，之后重建为代工厂——和德州仪器「打不过就撤退、把钱调回能长期赚的业务」是同一类故事。现在做存储代工、NOR flash、图像传感器、面板驱动与功率器件。</span><span class="tg-lang en"><b>PSMC (Powerchip)</b> — <b>Hsinchu, Taiwan, not mainland China.</b> It began as a DRAM maker, was nearly destroyed in the 2008–2012 memory crash, and rebuilt itself as a foundry — the same kind of story as TI retreating from businesses it could not win and redeploying the money. Today: memory foundry, NOR flash, image sensors, display drivers and power devices.</span></span></span></div></div>
 <div class="grp"><p class="grp-l">存储 <i>/</i> Memory</p><div class="chips"><span class="chip c-kr tg-tip" data-r="kr" tabindex="0"><span class="chip-n">SK hynix<i class="chip-r"><span class="tg-lang zh">韩</span><span class="tg-lang en">KR</span></i></span><span class="chip-m"><span class="tg-lang zh">HBM 领先</span><span class="tg-lang en">HBM leader</span></span><span class="tg-tip-box"><span class="tg-lang zh"><b>SK 海力士</b>。HBM 的主要供应商，AI 周期最直接的受益者之一。</span><span class="tg-lang en"><b>SK hynix</b> — the leading HBM supplier; among the most direct beneficiaries of the AI cycle.</span></span></span><span class="chip c-kr tg-tip" data-r="kr" tabindex="0"><span class="chip-n">Samsung Memory<i class="chip-r"><span class="tg-lang zh">韩</span><span class="tg-lang en">KR</span></i></span><span class="chip-m"><span class="tg-lang zh">DRAM, NAND, HBM</span><span class="tg-lang en">DRAM, NAND, HBM</span></span><span class="tg-tip-box"><span class="tg-lang zh"><b>三星存储</b>。DRAM 月产能约 72 万片，全球第一。</span><span class="tg-lang en"><b>Samsung Memory</b> — ~720k wafers/month of DRAM capacity, the world's largest.</span></span></span><span class="chip c-us tg-tip" data-r="us" tabindex="0"><span class="chip-n">Micron<i class="chip-r"><span class="tg-lang zh">美</span><span class="tg-lang en">US</span></i></span><span class="chip-m"><span class="tg-lang zh">DRAM, NAND, HBM</span><span class="tg-lang en">DRAM, NAND, HBM</span></span><span class="tg-tip-box"><span class="tg-lang zh"><b>美光</b>。美国唯一的 DRAM 大厂。CHIPS 补贴同样未被换成股权。</span><span class="tg-lang en"><b>Micron</b> — the only major US DRAM maker. Like TSMC, its CHIPS award was not converted to equity.</span></span></span><span class="chip c-jp tg-tip" data-r="jp" tabindex="0"><span class="chip-n">Kioxia<i class="chip-r"><span class="tg-lang zh">日</span><span class="tg-lang en">JP</span></i></span><span class="chip-m"><span class="tg-lang zh">NAND</span><span class="tg-lang en">NAND</span></span><span class="tg-tip-box"><span class="tg-lang zh"><b>铠侠</b>。原东芝存储。</span><span class="tg-lang en"><b>Kioxia</b> — formerly Toshiba Memory.</span></span></span><span class="chip c-cn tg-tip" data-r="cn" tabindex="0"><span class="chip-n">CXMT 长鑫<i class="chip-r"><span class="tg-lang zh">陆</span><span class="tg-lang en">CN</span></i></span><span class="chip-m"><span class="tg-lang zh">DRAM ~7.7%，2026 底 ~35 万片</span><span class="tg-lang en">DRAM ~7.7%, ~350k wpm by end-26</span></span><span class="tg-tip-box"><span class="tg-lang zh"><b>长鑫存储</b>。已量产 DDR5。2026 年底月产能预计约 35 万片，接近美光的约 37.5 万片——<b>中国将成为全球第二大 DRAM 生产基地</b>。DRAM 不需要 EUV，这是它跑得起来的根本原因。</span><span class="tg-lang en"><b>CXMT</b> — already shipping DDR5. Projected ~350k wafers/month by end-2026, close to Micron's ~375k — <b>making China the world's #2 DRAM production base</b>. DRAM needs no EUV; that is exactly why this one works.</span></span></span><span class="chip c-cn tg-tip" data-r="cn" tabindex="0"><span class="chip-n">YMTC 长江存储<i class="chip-r"><span class="tg-lang zh">陆</span><span class="tg-lang en">CN</span></i></span><span class="chip-m"><span class="tg-lang zh">NAND 按位第 3 (14%)</span><span class="tg-lang en">#3 in NAND bits (14%)</span></span><span class="tg-tip-box"><span class="tg-lang zh"><b>长江存储</b>。2026 Q2 按位出货全球第三，但按营收第五（产品结构偏低价消费级）。武汉第三厂 2026 年底投产，<b>超过一半设备国产</b>。</span><span class="tg-lang en"><b>YMTC</b> — #3 globally by NAND bit shipments in Q2'26, only #5 by revenue (mix skews low-price consumer). Its third Wuhan fab starts up end-2026 with <b>over half its equipment domestically sourced</b>.</span></span></span></div></div>
